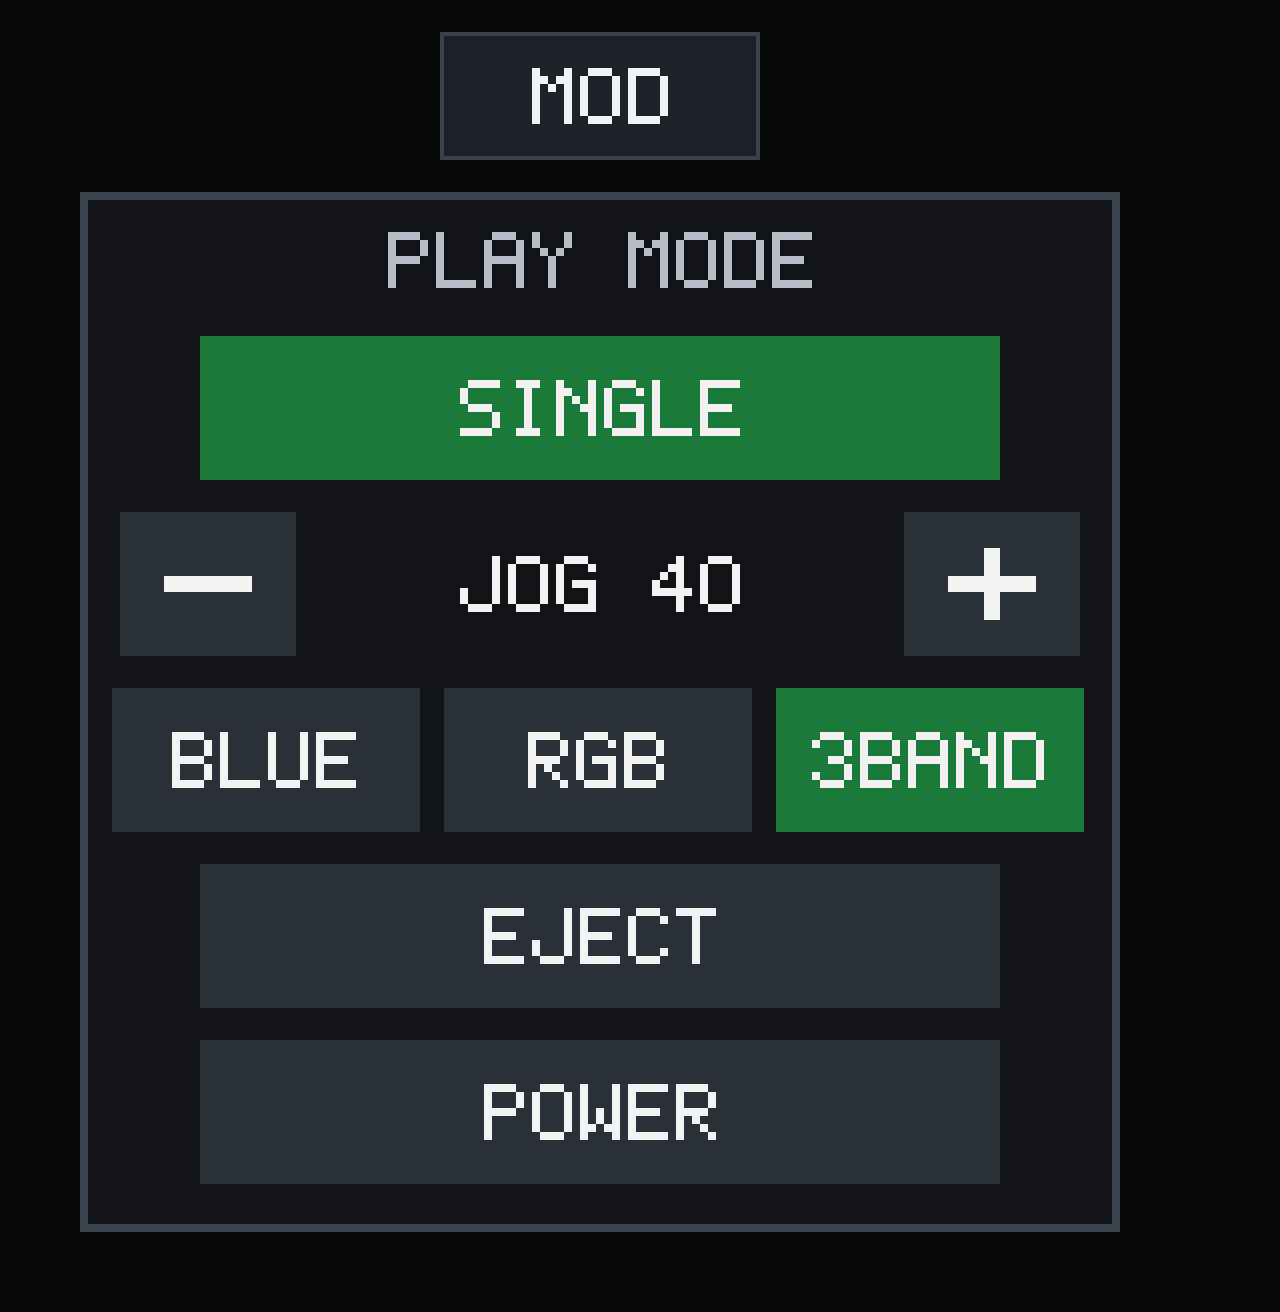
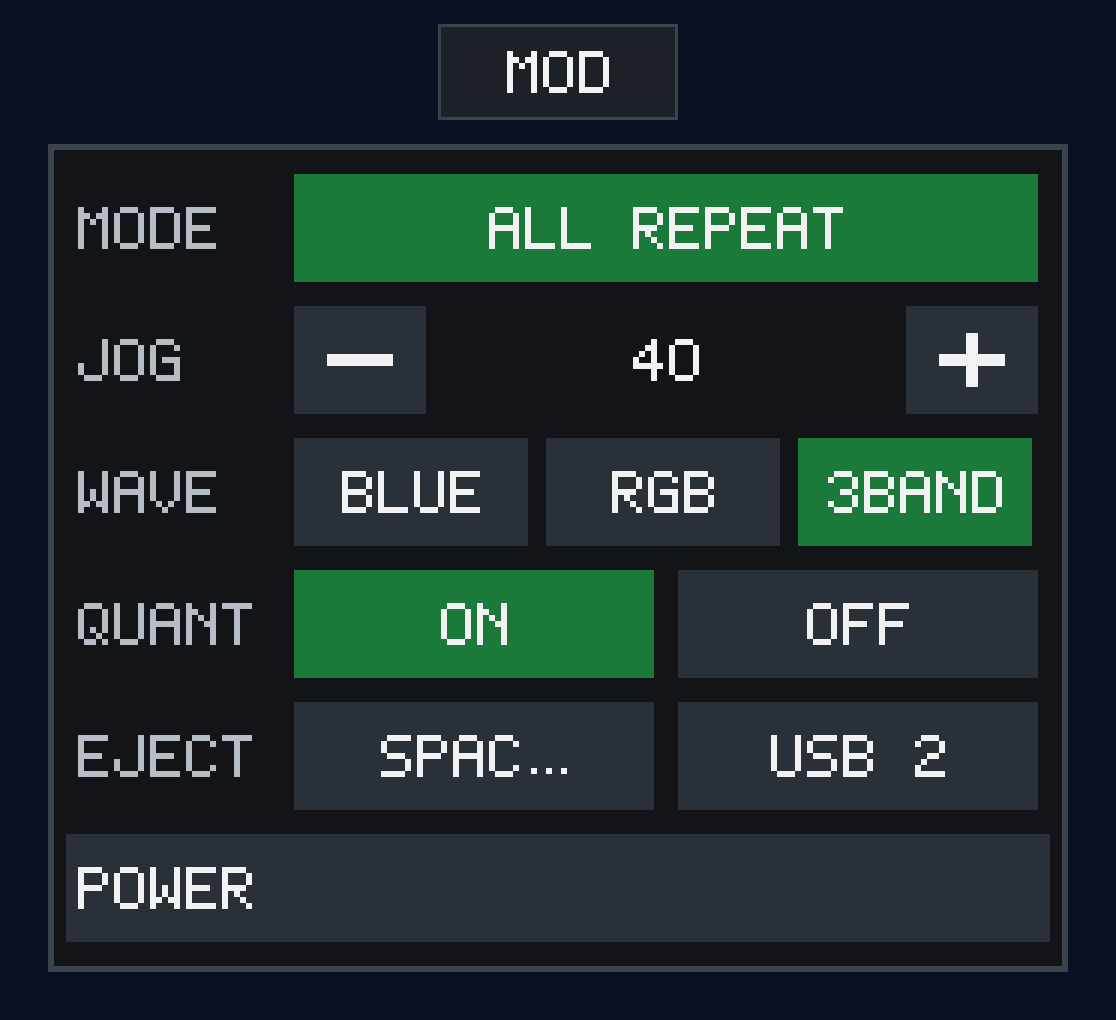
added quantize toggle on/off

diff --git a/scripts/shims/overlay_playmode.c b/scripts/shims/overlay_playmode.c
@@ -4,7 +4,7 @@
  * and steals taps before they reach rbp. A MOD tab at the top center of
  * the upright UI opens a panel. Each row names the setting on the left,
  * then the value: MODE (SINGLE, CONTINUE, REPEAT, ALL REPEAT), JOG
- * (− percent +), WAVE (BLUE, RGB, 3BAND), EJECT, and POWER.
+ * (− percent +), WAVE (BLUE, RGB, 3BAND), QUANT (ON, OFF), EJECT, and POWER.
  * The MODE button cycles those four play modes. EJECT asks usb-watch to
  * release the stick; the button then reads PULL until the stick is removed.
  * Play mode is UiSetUtilAutoPlayMode, the same call the RX3 utility menu
@@ -51,6 +51,10 @@
 #define UI_SET_WAVE ((void (*)(int, int, int, int))0x00185c78)
 #define UI_GET_WAVE ((int (*)(int, int))0x00185b14)
 #define UI_CHK_WAVE ((int (*)(int, int))0x00185ba4)
+/* UiSetQuantizeOnOff(deck, on) / UiGetPlayQuantizeOn(deck). Deck is 0 or 1.
+ * This is the QUANT button, not the quantize-beat-value setting. */
+#define UI_SET_QUANTIZE ((void (*)(int, int))0x000fe184)
+#define UI_GET_QUANTIZE ((int (*)(int))0x000fd36c)
 #define CMN_BASE ((volatile unsigned char *)0x03253564)
 /* SetPlayInfo passes this per-deck pair (device, kind) into WaveDispColor. */
 #define DECK_WAVE ((volatile unsigned char *)0x0216b3c0)
@@ -71,9 +75,9 @@
 #define TAB_X ((1280 - TAB_W) / 2)
 #define TAB_Y 8
 
-/* Name on the left, value on the right. Five rows under the MOD tab. */
+/* Name on the left, value on the right. Six rows under the MOD tab. */
 #define PAN_W 340
-#define PAN_H 232
+#define PAN_H 276
 #define PAN_X ((1280 - PAN_W) / 2)
 #define PAN_Y 48
 
@@ -97,12 +101,17 @@
 #define WAVE_X VAL_X
 #define WAVE_W VAL_W
 #define WAVE_BTN ((WAVE_W - 2 * WAVE_GAP) / 3)
-#define USB_Y  ROW_Y(3)
+#define QUANT_Y ROW_Y(3)
+#define QUANT_GAP 8
+#define QUANT_HALF ((VAL_W - QUANT_GAP) / 2)
+#define QUANT_ON_X VAL_X
+#define QUANT_OFF_X (VAL_X + QUANT_HALF + QUANT_GAP)
+#define USB_Y  ROW_Y(4)
 #define USB_GAP 8
 #define USB_HALF ((VAL_W - USB_GAP) / 2)
 #define USB_L_X VAL_X
 #define USB_R_X (VAL_X + USB_HALF + USB_GAP)
-#define PWR_Y  ROW_Y(4)
+#define PWR_Y  ROW_Y(5)
 
 #define COL_TAB    0xff1c2128u
 #define COL_PANEL  0xff121418u
@@ -123,6 +132,11 @@ static int          ov_seen_seq;
 static volatile int ov_wave_seq;
 static volatile int ov_wave_color;
 static int          ov_wave_seen;
+static volatile int ov_quant_seq;
+static volatile int ov_quant_on;
+static int          ov_quant_seen;
+static int          ov_quant_known;
+static int          ov_quant[2];
 static int          ov_wave_cur;
 static int          ov_grab;          /* finger went down on the overlay */
 
@@ -596,6 +610,44 @@ static int read_wave(void)
     return 1;
 }
 
+static void refresh_quant(void)
+{
+    int deck;
+    if (ov_quant_known)
+        return;
+    for (deck = 0; deck < 2; deck++)
+        ov_quant[deck] = UI_GET_QUANTIZE(deck) ? 1 : 0;
+    ov_quant_known = 1;
+}
+
+static void apply_quant(void)
+{
+    int seq = ov_quant_seq;
+    int on, deck;
+    if (seq == ov_quant_seen)
+        return;
+    __sync_synchronize();
+    on = ov_quant_on ? 1 : 0;
+    ov_quant_seen = seq;
+    for (deck = 0; deck < 2; deck++)
+        UI_SET_QUANTIZE(deck, on);
+    ov_quant[0] = on;
+    ov_quant[1] = on;
+    ov_quant_known = 1;
+    olog(on ? "overlay: quantize ON\n" : "overlay: quantize OFF\n");
+}
+
+static void request_quant(int on)
+{
+    on = on ? 1 : 0;
+    ov_quant[0] = on;
+    ov_quant[1] = on;
+    ov_quant_known = 1;
+    ov_quant_on = on;
+    __sync_synchronize();
+    ov_quant_seq++;
+}
+
 static void request_wave(int color)
 {
     ov_wave_color = color;
@@ -703,9 +755,11 @@ void overlay_paint(int fb_fd, unsigned yoffset)
 
     apply_pending();
     apply_wave();
+    apply_quant();
     open = ov_is_open();
     if (open) {
         refresh_mode();
+        refresh_quant();
         if (!ov_wave_cur)
             ov_wave_cur = read_wave();
     }
@@ -742,6 +796,7 @@ void overlay_paint(int fb_fd, unsigned yoffset)
     hash = hash_bytes(hash, &mode, sizeof(mode));
     hash = hash_bytes(hash, &jog, sizeof(jog));
     hash = hash_bytes(hash, &ov_wave_cur, sizeof(ov_wave_cur));
+    hash = hash_bytes(hash, ov_quant, sizeof(ov_quant));
     hash = hash_bytes(hash, &eject_arm, sizeof(eject_arm));
     hash = hash_bytes(hash, &pull1, sizeof(pull1));
     hash = hash_bytes(hash, &pull2, sizeof(pull2));
@@ -789,6 +844,14 @@ void overlay_paint(int fb_fd, unsigned yoffset)
         }
     }
 
+    draw_label(base, QUANT_Y, "QUANT");
+    fill_visual(base, QUANT_ON_X, QUANT_Y, QUANT_HALF, ROW_H,
+                (ov_quant[0] && ov_quant[1]) ? COL_ON : COL_BTN);
+    draw_text_centered(base, QUANT_ON_X, QUANT_Y, QUANT_HALF, ROW_H, "ON", COL_TEXT);
+    fill_visual(base, QUANT_OFF_X, QUANT_Y, QUANT_HALF, ROW_H,
+                (!ov_quant[0] && !ov_quant[1]) ? COL_ON : COL_BTN);
+    draw_text_centered(base, QUANT_OFF_X, QUANT_Y, QUANT_HALF, ROW_H, "OFF", COL_TEXT);
+
     draw_label(base, USB_Y, "EJECT");
     fill_visual(base, USB_L_X, USB_Y, USB_HALF, ROW_H,
                 (eject_arm == 1 || pull1) ? COL_ON : COL_BTN);
@@ -823,7 +886,7 @@ int overlay_touch(int down, int was_down, int lx, int ly)
     int vx = 1279 - lx;
     int vy = ly;
     int on_tab, on_panel, on_mode, on_jog_dn, on_jog_up;
-    int on_usb1, on_usb2, on_blue, on_rgb, on_band, on_power;
+    int on_usb1, on_usb2, on_blue, on_rgb, on_band, on_quant_on, on_quant_off, on_power;
     int fresh;
     unsigned long long now;
     static unsigned long long last_ev_ms;
@@ -848,6 +911,8 @@ int overlay_touch(int down, int was_down, int lx, int ly)
         on_blue = in_rect(vx, vy, WAVE_X, WAVE_Y, WAVE_BTN, ROW_H);
         on_rgb = in_rect(vx, vy, WAVE_X + (WAVE_BTN + WAVE_GAP), WAVE_Y, WAVE_BTN, ROW_H);
         on_band = in_rect(vx, vy, WAVE_X + 2 * (WAVE_BTN + WAVE_GAP), WAVE_Y, WAVE_BTN, ROW_H);
+        on_quant_on = in_rect(vx, vy, QUANT_ON_X, QUANT_Y, QUANT_HALF, ROW_H);
+        on_quant_off = in_rect(vx, vy, QUANT_OFF_X, QUANT_Y, QUANT_HALF, ROW_H);
         on_usb1 = in_rect(vx, vy, USB_L_X, USB_Y, USB_HALF, ROW_H);
         on_usb2 = in_rect(vx, vy, USB_R_X, USB_Y, USB_HALF, ROW_H);
         on_power = in_rect(vx, vy, PAN_X + 6, PWR_Y, PAN_W - 12, ROW_H);
@@ -856,6 +921,7 @@ int overlay_touch(int down, int was_down, int lx, int ly)
             if (on_tab) {
                 ov_set_open(1);
                 ov_mode_known = 0;
+                ov_quant_known = 0;
                 ov_wave_cur = 0;
                 eject_arm = 0;
                 power_arm = 0;
@@ -886,6 +952,10 @@ int overlay_touch(int down, int was_down, int lx, int ly)
                 request_wave(3);
             else if (on_band)
                 request_wave(4);
+            else if (on_quant_on)
+                request_quant(1);
+            else if (on_quant_off)
+                request_quant(0);
             else if (on_usb1 && !pull1) {
                 if (eject_arm == 1) {
                     eject_request(1);

diff --git a/CHANGELOG.md b/CHANGELOG.md
@@ -11,6 +11,7 @@ A **MOD** tab sits at the top center of the screen. Taps on the tab and its pane
 - **MODE** is the play mode. Each tap cycles **SINGLE**, **CONTINUE**, **REPEAT**, and **ALL REPEAT**, using the same `UiSetUtilAutoPlayMode` call as the RX3 utility screen. The choice is written back to `XdjSettings.dat`.
 - **JOG** is jog sensitivity for both decks, shown as −, the percent, and +. It starts at 40% of the original calibration, steps by 10% between 20% and 200%, and is kept in `/tmp/rb-overlay` until the device reboots.
 - **WAVE** is **BLUE**, **RGB**, or **3 BAND**, and it recolors the waveform that is already on screen. On this player, tapping the waveform does not open the RX3 shortcut, so the choice is on the MOD panel.
+- **QUANT** is deck quantize for both decks, **ON** or **OFF**. This is the QUANT button (`UiSetQuantizeOnOff`), so **OFF** lets cue land off the beat grid. The settings entry "quantize beat value" only changes the grid size and leaves snapping on.
 - **EJECT** names the row. The two USB slots are already shown, each labeled with a shortened volume name. Tapping a slot turns that half into **YES**. Only the **YES** tap ejects that stick. Closing the menu clears a pending **YES**.
 - **POWER** sits on the last row. The first tap turns the row green and shows **YES**. The second tap asks the launcher to eject both sticks, then power the unit off. Closing the menu before **YES** cancels it.
 

diff --git a/scripts/shims/README.md b/scripts/shims/README.md
@@ -25,7 +25,7 @@ Build a single target during development, e.g.
 
 | File | Role | SC Live 4 |
 |---|---|---|
-| `fbshim-tsc.c` → `fbshim.so` | fb ioctl shim (1280×800 RGB565 logical fb, 60 fps pacing) + tsc2007 touch emulation from `/dev/input/event0`. `overlay_playmode.c` draws a MOD tab. Each row is the setting name, then the value: play mode, jog sensitivity, waveform color, USB eject, and power | used as-is |
+| `fbshim-tsc.c` → `fbshim.so` | fb ioctl shim (1280×800 RGB565 logical fb, 60 fps pacing) + tsc2007 touch emulation from `/dev/input/event0`. `overlay_playmode.c` draws a MOD tab. Each row is the setting name, then the value: play mode, jog sensitivity, waveform color, deck quantize, USB eject, and power | used as-is |
 | `knobshim2.c` → `knobshim.so` | SC Live 4 MIDI control surface → rbp keycodes, plus panel LED and VU output | **SC Live 4-specific** |
 | `audioshim.c` → `audioshim.so` | presents the RX3 ALSA devices over the JP21 `hw:1,0` codec | **SC Live 4-specific** |
 | `crashcatch.c` → `crashcatch.so` | SIGSEGV `pc`/`lr` → `/tmp/crash.log` | diagnostic |

diff --git a/README.md b/README.md
@@ -2,7 +2,7 @@
 
 see [CHANGELOG.md](https://github.com/spencercap/rblive4/blob/main/CHANGELOG.md) for how this is different from the OG. 
 - there's a new MOD overlay panel which is helpful for changing things previously unavailable
-- <img src="https://github.com/spencercap/rblive4/raw/main/docs/mod-menu.png" alt="" width="240"/>
+- <img src="docs/rkb-scl4.png" alt="" width="720"/>
 
 ---
 
